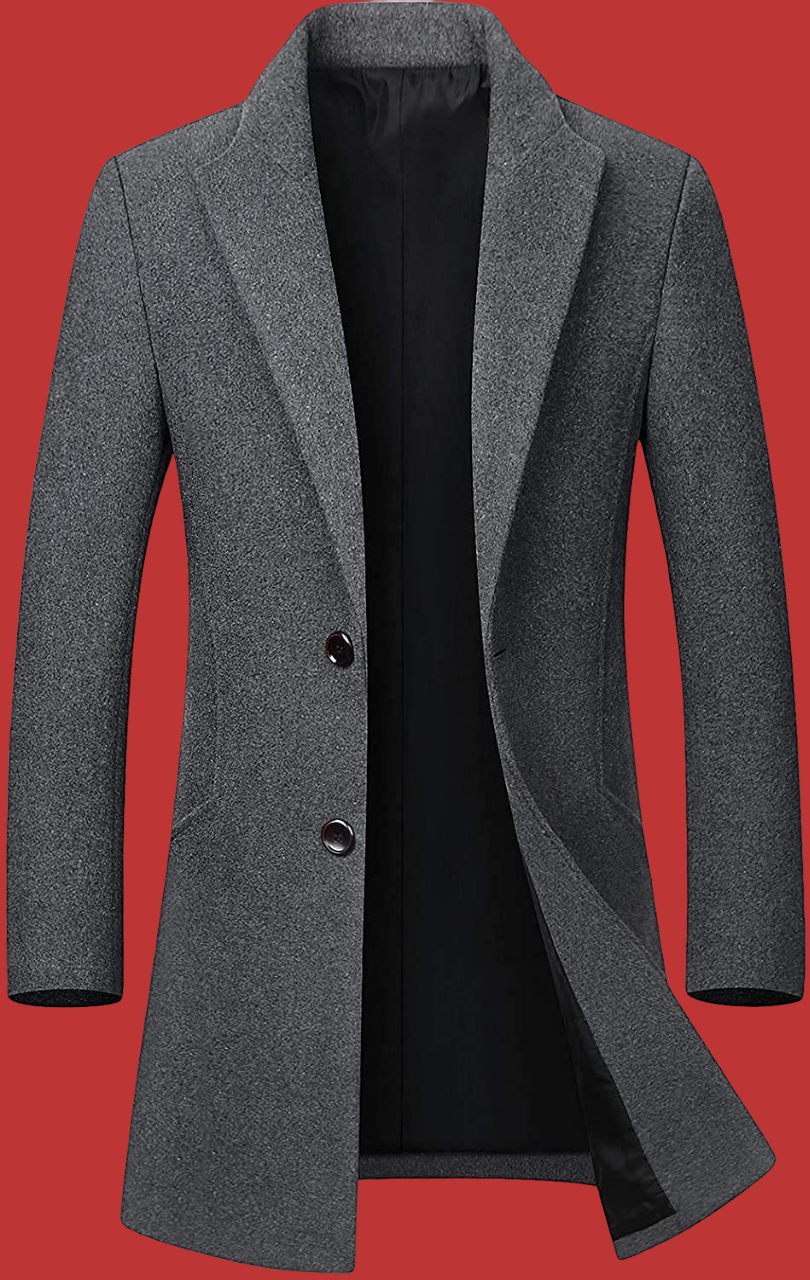
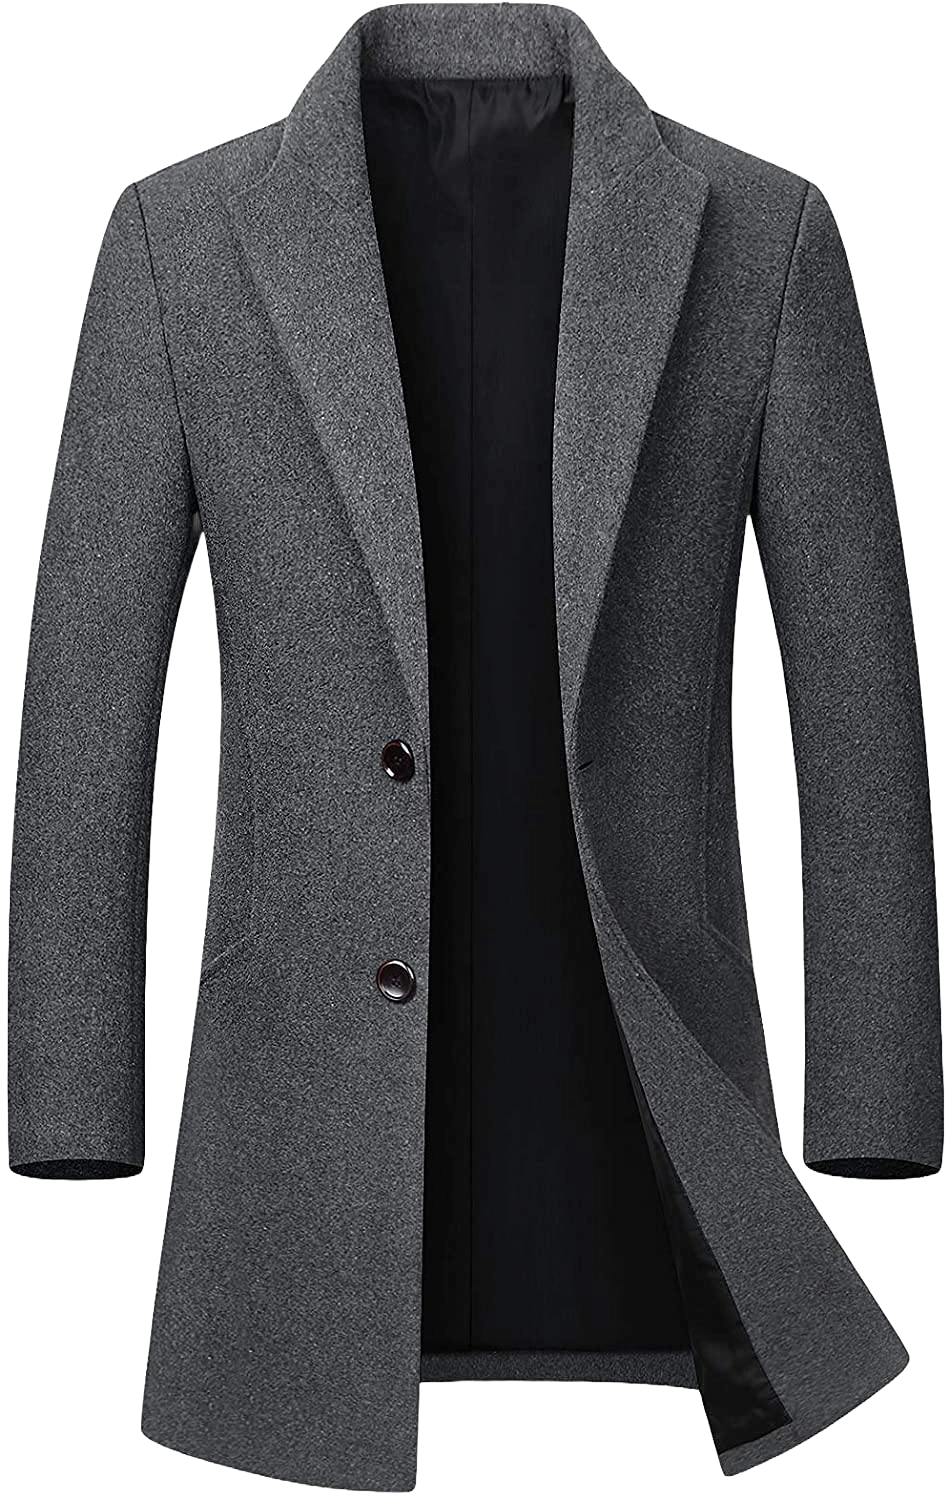
style:fe: made img transparent, added min height

Changed region(s): [[0.0, 0.0, 1.0, 1.0], [0.8642, 0.375, 0.8951, 0.4375]]

diff --git a/frontend/src/app/(pages)/product/[id]/page.module.css b/frontend/src/app/(pages)/product/[id]/page.module.css
@@ -1,6 +1,7 @@
 div.product-detail-slug {
 
   div.product-box {
+    min-height: 80vh;
 
     div.details {
       display: flex;
@@ -21,9 +22,6 @@ div.product-detail-slug {
   }
 
 }
-
-
-
 
 @media (width > 800px ) {
   .product-box {

diff --git a/frontend/src/app/globals.css b/frontend/src/app/globals.css
@@ -39,7 +39,7 @@ body {
       rgb(var(--background-end-rgb))
     )
     rgb(var(--background-start-rgb)); */
-  background: hsl(360, 57%, 47%);
+  background: hsl(0, 60%, 47%);
   height: 100dvh;
   width: 100%;
 }

diff --git a/frontend/src/app/(pages)/page.module.css b/frontend/src/app/(pages)/page.module.css
@@ -18,7 +18,7 @@
     grid-template-areas:
       "product-1 product-2"
       "product-1 product-3";
-
+    min-height: 80vh;
   }
 
   .product-1 {
